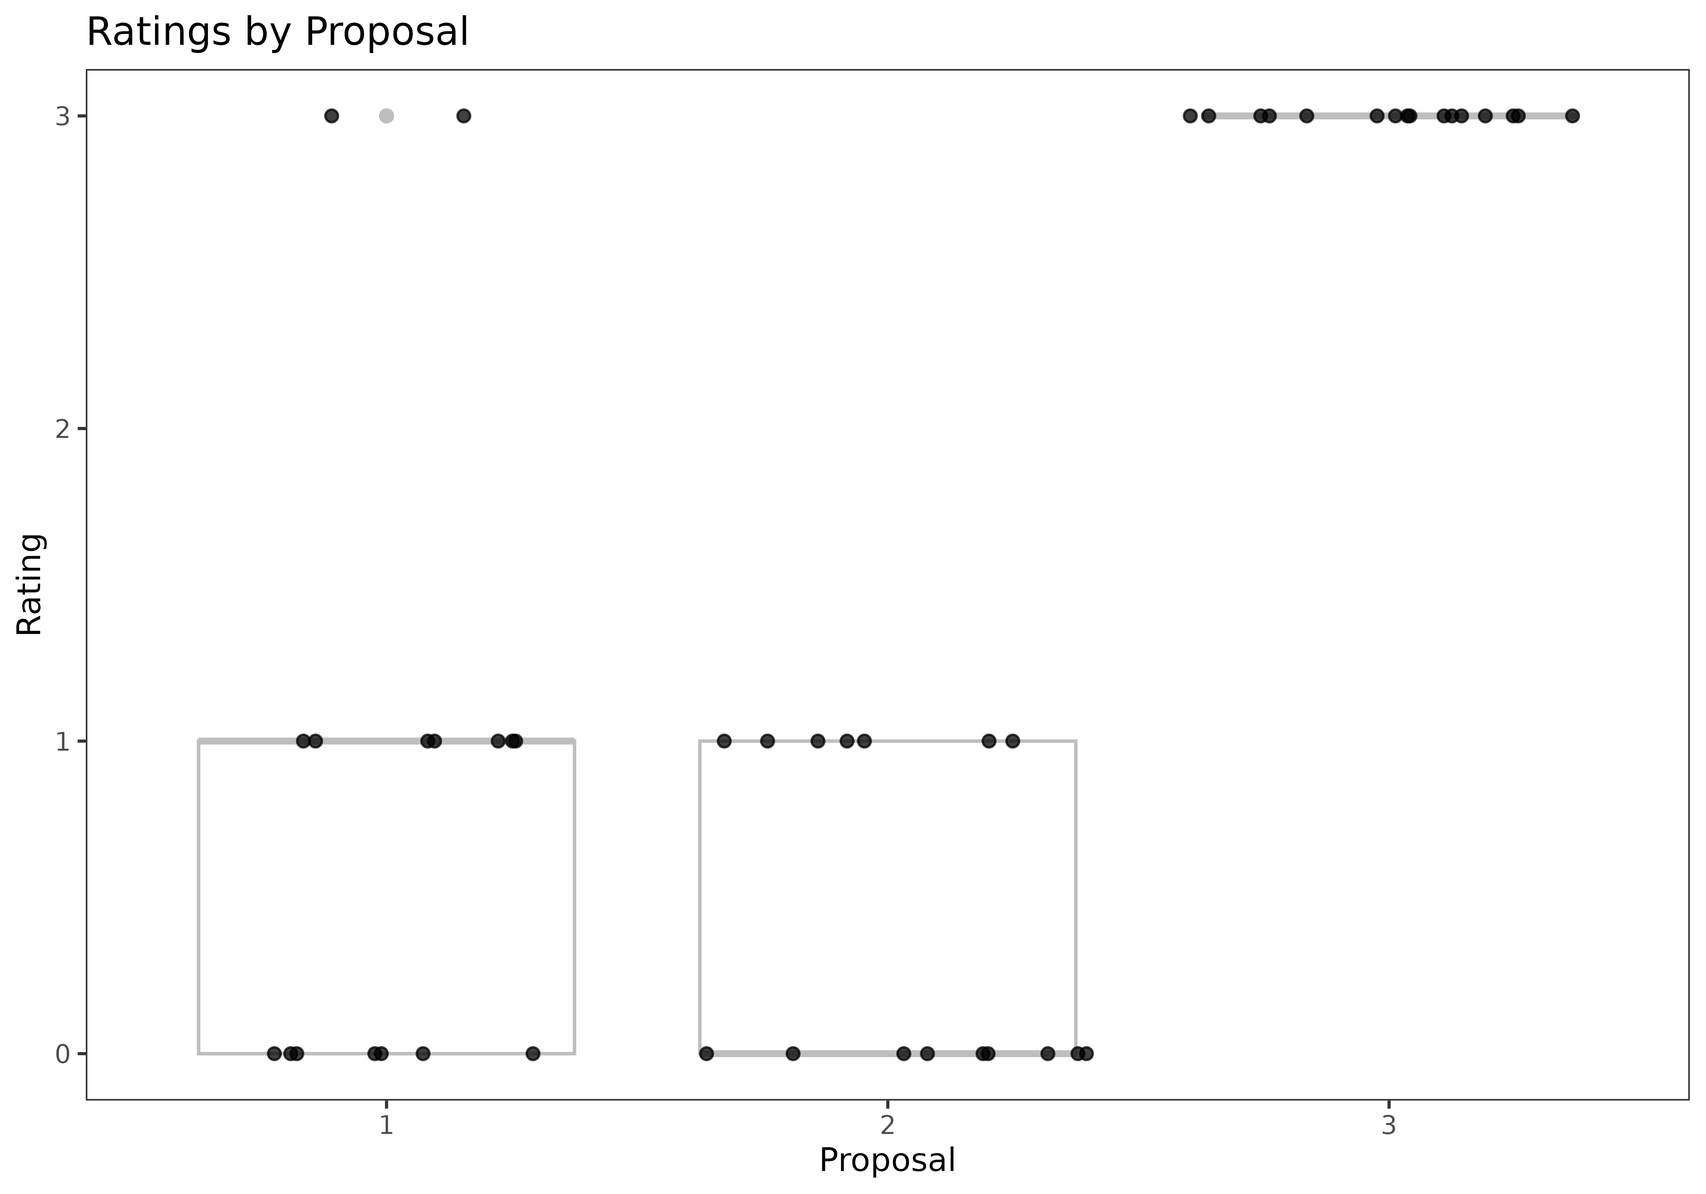
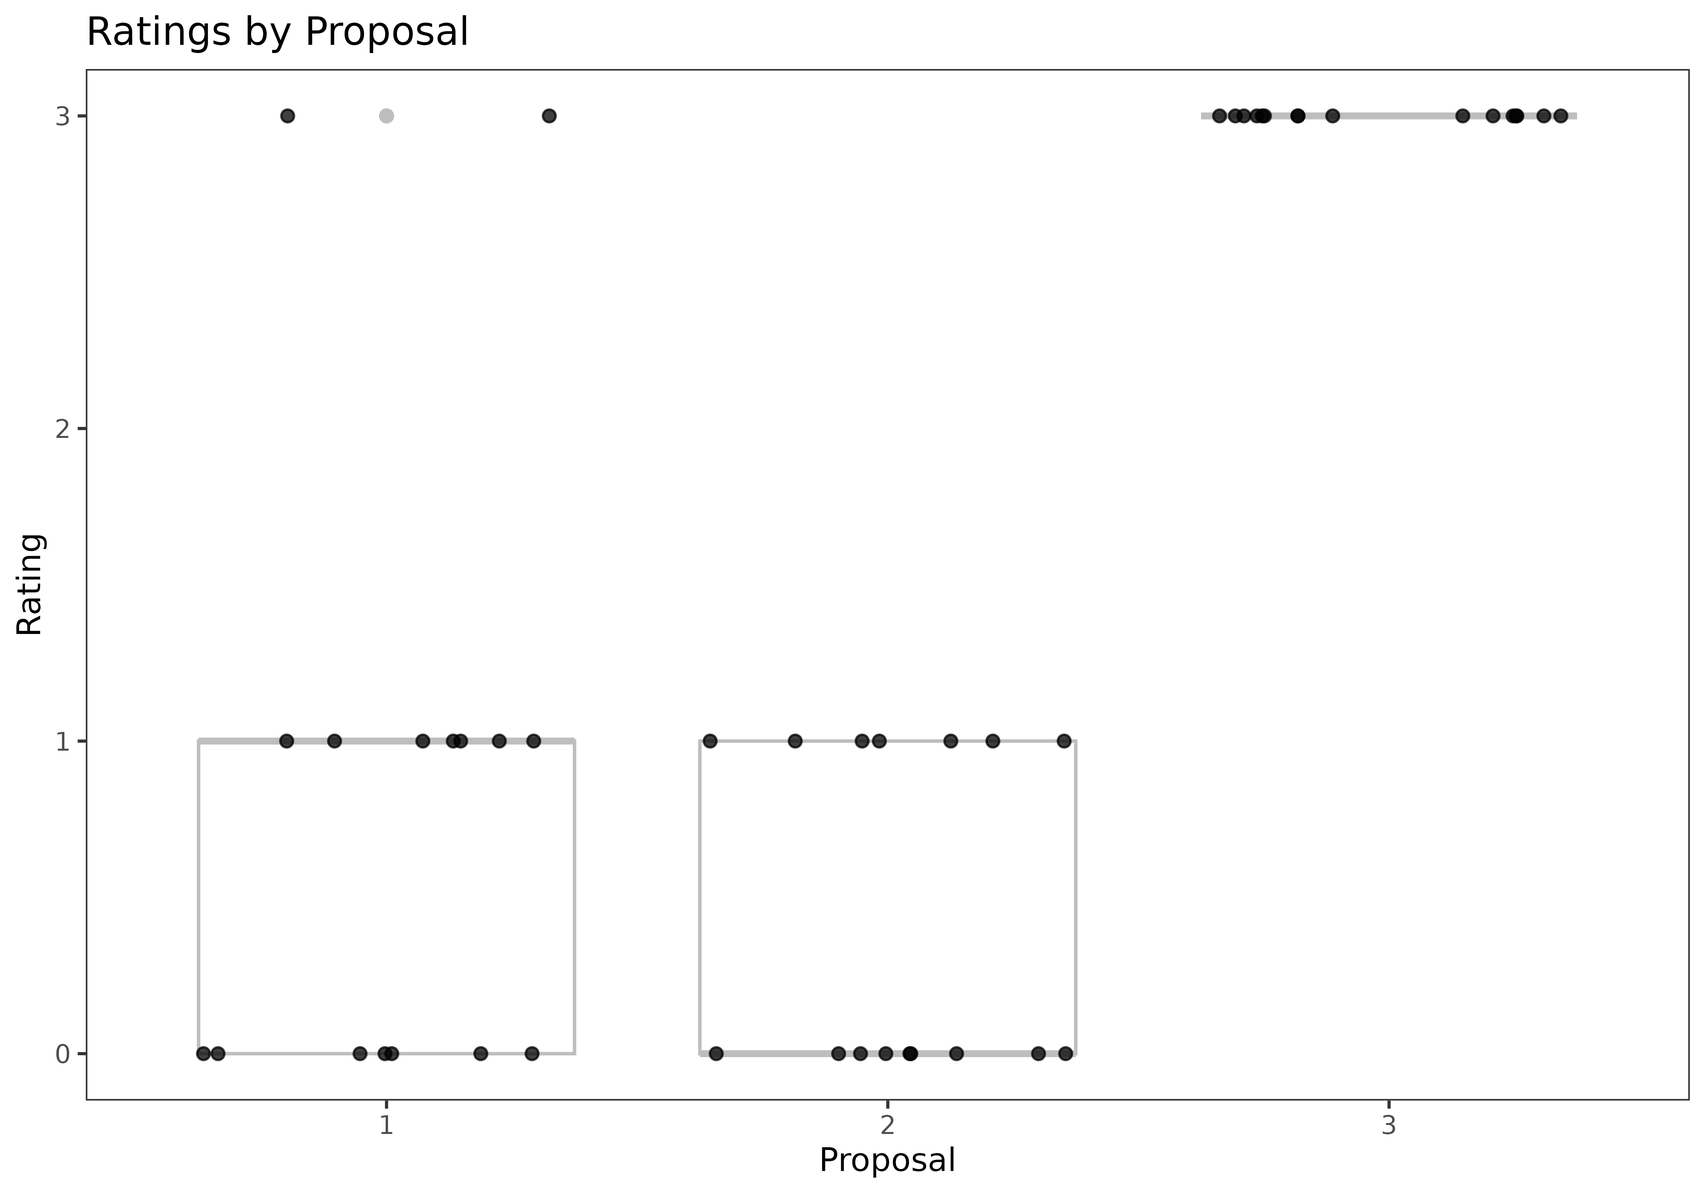
Deploying to gh-pages from @ pearce790/rankrate@65d6e1b52c5085fd009be65f7f725cf2c1b33ae3 🚀

diff --git a/reference/ci_mb.html b/reference/ci_mb.html
@@ -113,9 +113,9 @@ matrix of bootstrap estimates of (p,theta) (returned only if <code>all==TRUE</co
     <div class="sourceCode"><pre class="sourceCode r"><code><span class="r-in"><span><span class="fu"><a href="https://rdrr.io/r/utils/data.html" class="external-link">data</a></span><span class="op">(</span><span class="st">"ToyData1"</span><span class="op">)</span></span></span>
 <span class="r-in"><span><span class="fu">ci_mb</span><span class="op">(</span><span class="va">ToyData1</span><span class="op">$</span><span class="va">rankings</span>,<span class="va">ToyData1</span><span class="op">$</span><span class="va">ratings</span>,<span class="va">ToyData1</span><span class="op">$</span><span class="va">M</span>,method<span class="op">=</span><span class="st">"ASTAR"</span>,all<span class="op">=</span><span class="cn">TRUE</span><span class="op">)</span></span></span>
 <span class="r-out co"><span class="r-pr">#&gt;</span> $ci</span>
-<span class="r-out co"><span class="r-pr">#&gt;</span>           p1       p2   p3 theta</span>
-<span class="r-out co"><span class="r-pr">#&gt;</span> 5%  0.078125 0.078125 0.75 1e+08</span>
-<span class="r-out co"><span class="r-pr">#&gt;</span> 95% 0.171875 0.171875 0.75 1e+08</span>
+<span class="r-out co"><span class="r-pr">#&gt;</span>            p1        p2   p3 theta</span>
+<span class="r-out co"><span class="r-pr">#&gt;</span> 5%  0.0781250 0.0781250 0.75 1e+08</span>
+<span class="r-out co"><span class="r-pr">#&gt;</span> 95% 0.1648437 0.1648437 0.75 1e+08</span>
 <span class="r-out co"><span class="r-pr">#&gt;</span> </span>
 <span class="r-out co"><span class="r-pr">#&gt;</span> $ci_ranks</span>
 <span class="r-out co"><span class="r-pr">#&gt;</span>     Object1 Object2 Object3</span>
@@ -177,56 +177,56 @@ matrix of bootstrap estimates of (p,theta) (returned only if <code>all==TRUE</co
 <span class="r-out co"><span class="r-pr">#&gt;</span> </span>
 <span class="r-out co"><span class="r-pr">#&gt;</span> $bootstrap_ptheta</span>
 <span class="r-out co"><span class="r-pr">#&gt;</span>             p1       p2   p3 theta</span>
-<span class="r-out co"><span class="r-pr">#&gt;</span>  [1,] 0.140625 0.140625 0.75 1e+08</span>
-<span class="r-out co"><span class="r-pr">#&gt;</span>  [2,] 0.109375 0.109375 0.75 1e+08</span>
-<span class="r-out co"><span class="r-pr">#&gt;</span>  [3,] 0.109375 0.109375 0.75 1e+08</span>
-<span class="r-out co"><span class="r-pr">#&gt;</span>  [4,] 0.140625 0.140625 0.75 1e+08</span>
-<span class="r-out co"><span class="r-pr">#&gt;</span>  [5,] 0.078125 0.078125 0.75 1e+08</span>
-<span class="r-out co"><span class="r-pr">#&gt;</span>  [6,] 0.125000 0.125000 0.75 1e+08</span>
-<span class="r-out co"><span class="r-pr">#&gt;</span>  [7,] 0.109375 0.109375 0.75 1e+08</span>
-<span class="r-out co"><span class="r-pr">#&gt;</span>  [8,] 0.171875 0.171875 0.75 1e+08</span>
-<span class="r-out co"><span class="r-pr">#&gt;</span>  [9,] 0.140625 0.140625 0.75 1e+08</span>
-<span class="r-out co"><span class="r-pr">#&gt;</span> [10,] 0.125000 0.125000 0.75 1e+08</span>
-<span class="r-out co"><span class="r-pr">#&gt;</span> [11,] 0.171875 0.171875 0.75 1e+08</span>
-<span class="r-out co"><span class="r-pr">#&gt;</span> [12,] 0.171875 0.171875 0.75 1e+08</span>
-<span class="r-out co"><span class="r-pr">#&gt;</span> [13,] 0.171875 0.171875 0.75 1e+08</span>
-<span class="r-out co"><span class="r-pr">#&gt;</span> [14,] 0.125000 0.125000 0.75 1e+08</span>
-<span class="r-out co"><span class="r-pr">#&gt;</span> [15,] 0.125000 0.125000 0.75 1e+08</span>
-<span class="r-out co"><span class="r-pr">#&gt;</span> [16,] 0.125000 0.125000 0.75 1e+08</span>
-<span class="r-out co"><span class="r-pr">#&gt;</span> [17,] 0.125000 0.125000 0.75 1e+08</span>
-<span class="r-out co"><span class="r-pr">#&gt;</span> [18,] 0.171875 0.171875 0.75 1e+08</span>
-<span class="r-out co"><span class="r-pr">#&gt;</span> [19,] 0.109375 0.109375 0.75 1e+08</span>
-<span class="r-out co"><span class="r-pr">#&gt;</span> [20,] 0.093750 0.093750 0.75 1e+08</span>
-<span class="r-out co"><span class="r-pr">#&gt;</span> [21,] 0.125000 0.125000 0.75 1e+08</span>
+<span class="r-out co"><span class="r-pr">#&gt;</span>  [1,] 0.078125 0.078125 0.75 1e+08</span>
+<span class="r-out co"><span class="r-pr">#&gt;</span>  [2,] 0.125000 0.125000 0.75 1e+08</span>
+<span class="r-out co"><span class="r-pr">#&gt;</span>  [3,] 0.156250 0.156250 0.75 1e+08</span>
+<span class="r-out co"><span class="r-pr">#&gt;</span>  [4,] 0.109375 0.109375 0.75 1e+08</span>
+<span class="r-out co"><span class="r-pr">#&gt;</span>  [5,] 0.109375 0.109375 0.75 1e+08</span>
+<span class="r-out co"><span class="r-pr">#&gt;</span>  [6,] 0.078125 0.078125 0.75 1e+08</span>
+<span class="r-out co"><span class="r-pr">#&gt;</span>  [7,] 0.171875 0.171875 0.75 1e+08</span>
+<span class="r-out co"><span class="r-pr">#&gt;</span>  [8,] 0.156250 0.156250 0.75 1e+08</span>
+<span class="r-out co"><span class="r-pr">#&gt;</span>  [9,] 0.078125 0.078125 0.75 1e+08</span>
+<span class="r-out co"><span class="r-pr">#&gt;</span> [10,] 0.171875 0.171875 0.75 1e+08</span>
+<span class="r-out co"><span class="r-pr">#&gt;</span> [11,] 0.093750 0.093750 0.75 1e+08</span>
+<span class="r-out co"><span class="r-pr">#&gt;</span> [12,] 0.093750 0.093750 0.75 1e+08</span>
+<span class="r-out co"><span class="r-pr">#&gt;</span> [13,] 0.078125 0.078125 0.75 1e+08</span>
+<span class="r-out co"><span class="r-pr">#&gt;</span> [14,] 0.078125 0.078125 0.75 1e+08</span>
+<span class="r-out co"><span class="r-pr">#&gt;</span> [15,] 0.093750 0.093750 0.75 1e+08</span>
+<span class="r-out co"><span class="r-pr">#&gt;</span> [16,] 0.109375 0.109375 0.75 1e+08</span>
+<span class="r-out co"><span class="r-pr">#&gt;</span> [17,] 0.140625 0.140625 0.75 1e+08</span>
+<span class="r-out co"><span class="r-pr">#&gt;</span> [18,] 0.140625 0.140625 0.75 1e+08</span>
+<span class="r-out co"><span class="r-pr">#&gt;</span> [19,] 0.125000 0.125000 0.75 1e+08</span>
+<span class="r-out co"><span class="r-pr">#&gt;</span> [20,] 0.109375 0.109375 0.75 1e+08</span>
+<span class="r-out co"><span class="r-pr">#&gt;</span> [21,] 0.078125 0.078125 0.75 1e+08</span>
 <span class="r-out co"><span class="r-pr">#&gt;</span> [22,] 0.140625 0.140625 0.75 1e+08</span>
-<span class="r-out co"><span class="r-pr">#&gt;</span> [23,] 0.109375 0.109375 0.75 1e+08</span>
-<span class="r-out co"><span class="r-pr">#&gt;</span> [24,] 0.140625 0.140625 0.75 1e+08</span>
+<span class="r-out co"><span class="r-pr">#&gt;</span> [23,] 0.125000 0.125000 0.75 1e+08</span>
+<span class="r-out co"><span class="r-pr">#&gt;</span> [24,] 0.125000 0.125000 0.75 1e+08</span>
 <span class="r-out co"><span class="r-pr">#&gt;</span> [25,] 0.125000 0.125000 0.75 1e+08</span>
-<span class="r-out co"><span class="r-pr">#&gt;</span> [26,] 0.171875 0.171875 0.75 1e+08</span>
-<span class="r-out co"><span class="r-pr">#&gt;</span> [27,] 0.062500 0.062500 0.75 1e+08</span>
-<span class="r-out co"><span class="r-pr">#&gt;</span> [28,] 0.078125 0.078125 0.75 1e+08</span>
-<span class="r-out co"><span class="r-pr">#&gt;</span> [29,] 0.093750 0.093750 0.75 1e+08</span>
-<span class="r-out co"><span class="r-pr">#&gt;</span> [30,] 0.109375 0.109375 0.75 1e+08</span>
-<span class="r-out co"><span class="r-pr">#&gt;</span> [31,] 0.140625 0.140625 0.75 1e+08</span>
-<span class="r-out co"><span class="r-pr">#&gt;</span> [32,] 0.140625 0.140625 0.75 1e+08</span>
-<span class="r-out co"><span class="r-pr">#&gt;</span> [33,] 0.140625 0.140625 0.75 1e+08</span>
-<span class="r-out co"><span class="r-pr">#&gt;</span> [34,] 0.125000 0.125000 0.75 1e+08</span>
+<span class="r-out co"><span class="r-pr">#&gt;</span> [26,] 0.140625 0.140625 0.75 1e+08</span>
+<span class="r-out co"><span class="r-pr">#&gt;</span> [27,] 0.140625 0.140625 0.75 1e+08</span>
+<span class="r-out co"><span class="r-pr">#&gt;</span> [28,] 0.125000 0.125000 0.75 1e+08</span>
+<span class="r-out co"><span class="r-pr">#&gt;</span> [29,] 0.140625 0.140625 0.75 1e+08</span>
+<span class="r-out co"><span class="r-pr">#&gt;</span> [30,] 0.078125 0.078125 0.75 1e+08</span>
+<span class="r-out co"><span class="r-pr">#&gt;</span> [31,] 0.171875 0.171875 0.75 1e+08</span>
+<span class="r-out co"><span class="r-pr">#&gt;</span> [32,] 0.156250 0.156250 0.75 1e+08</span>
+<span class="r-out co"><span class="r-pr">#&gt;</span> [33,] 0.109375 0.109375 0.75 1e+08</span>
+<span class="r-out co"><span class="r-pr">#&gt;</span> [34,] 0.140625 0.140625 0.75 1e+08</span>
 <span class="r-out co"><span class="r-pr">#&gt;</span> [35,] 0.125000 0.125000 0.75 1e+08</span>
-<span class="r-out co"><span class="r-pr">#&gt;</span> [36,] 0.156250 0.156250 0.75 1e+08</span>
-<span class="r-out co"><span class="r-pr">#&gt;</span> [37,] 0.140625 0.140625 0.75 1e+08</span>
+<span class="r-out co"><span class="r-pr">#&gt;</span> [36,] 0.140625 0.140625 0.75 1e+08</span>
+<span class="r-out co"><span class="r-pr">#&gt;</span> [37,] 0.093750 0.093750 0.75 1e+08</span>
 <span class="r-out co"><span class="r-pr">#&gt;</span> [38,] 0.125000 0.125000 0.75 1e+08</span>
 <span class="r-out co"><span class="r-pr">#&gt;</span> [39,] 0.109375 0.109375 0.75 1e+08</span>
 <span class="r-out co"><span class="r-pr">#&gt;</span> [40,] 0.156250 0.156250 0.75 1e+08</span>
-<span class="r-out co"><span class="r-pr">#&gt;</span> [41,] 0.078125 0.078125 0.75 1e+08</span>
-<span class="r-out co"><span class="r-pr">#&gt;</span> [42,] 0.156250 0.156250 0.75 1e+08</span>
-<span class="r-out co"><span class="r-pr">#&gt;</span> [43,] 0.093750 0.093750 0.75 1e+08</span>
+<span class="r-out co"><span class="r-pr">#&gt;</span> [41,] 0.109375 0.109375 0.75 1e+08</span>
+<span class="r-out co"><span class="r-pr">#&gt;</span> [42,] 0.093750 0.093750 0.75 1e+08</span>
+<span class="r-out co"><span class="r-pr">#&gt;</span> [43,] 0.125000 0.125000 0.75 1e+08</span>
 <span class="r-out co"><span class="r-pr">#&gt;</span> [44,] 0.109375 0.109375 0.75 1e+08</span>
-<span class="r-out co"><span class="r-pr">#&gt;</span> [45,] 0.140625 0.140625 0.75 1e+08</span>
+<span class="r-out co"><span class="r-pr">#&gt;</span> [45,] 0.156250 0.156250 0.75 1e+08</span>
 <span class="r-out co"><span class="r-pr">#&gt;</span> [46,] 0.125000 0.125000 0.75 1e+08</span>
 <span class="r-out co"><span class="r-pr">#&gt;</span> [47,] 0.125000 0.125000 0.75 1e+08</span>
-<span class="r-out co"><span class="r-pr">#&gt;</span> [48,] 0.125000 0.125000 0.75 1e+08</span>
-<span class="r-out co"><span class="r-pr">#&gt;</span> [49,] 0.171875 0.171875 0.75 1e+08</span>
-<span class="r-out co"><span class="r-pr">#&gt;</span> [50,] 0.156250 0.156250 0.75 1e+08</span>
+<span class="r-out co"><span class="r-pr">#&gt;</span> [48,] 0.109375 0.109375 0.75 1e+08</span>
+<span class="r-out co"><span class="r-pr">#&gt;</span> [49,] 0.140625 0.140625 0.75 1e+08</span>
+<span class="r-out co"><span class="r-pr">#&gt;</span> [50,] 0.140625 0.140625 0.75 1e+08</span>
 <span class="r-out co"><span class="r-pr">#&gt;</span> </span>
 <span class="r-in"><span></span></span>
 </code></pre></div>

diff --git a/reference/rmb.html b/reference/rmb.html
@@ -96,19 +96,19 @@ and <code>M</code>, the inputted maximum integer rating.</p>
     <div class="sourceCode"><pre class="sourceCode r"><code><span class="r-in"><span><span class="fu">rmb</span><span class="op">(</span>I<span class="op">=</span><span class="fl">5</span>,p<span class="op">=</span><span class="fu"><a href="https://rdrr.io/r/base/c.html" class="external-link">c</a></span><span class="op">(</span><span class="fl">.1</span>,<span class="fl">.3</span>,<span class="fl">.4</span>,<span class="fl">.7</span>,<span class="fl">.9</span><span class="op">)</span>,theta<span class="op">=</span><span class="fl">1</span>,M<span class="op">=</span><span class="fl">10</span><span class="op">)</span></span></span>
 <span class="r-out co"><span class="r-pr">#&gt;</span> $ratings</span>
 <span class="r-out co"><span class="r-pr">#&gt;</span>      [,1] [,2] [,3] [,4] [,5]</span>
-<span class="r-out co"><span class="r-pr">#&gt;</span> [1,]    0    4    5    7    9</span>
-<span class="r-out co"><span class="r-pr">#&gt;</span> [2,]    4    4    6    9   10</span>
-<span class="r-out co"><span class="r-pr">#&gt;</span> [3,]    1    3    4    9    8</span>
-<span class="r-out co"><span class="r-pr">#&gt;</span> [4,]    0    4    6    6   10</span>
-<span class="r-out co"><span class="r-pr">#&gt;</span> [5,]    1    6    6    4    8</span>
+<span class="r-out co"><span class="r-pr">#&gt;</span> [1,]    0    3    4    9   10</span>
+<span class="r-out co"><span class="r-pr">#&gt;</span> [2,]    1    1    4    6    8</span>
+<span class="r-out co"><span class="r-pr">#&gt;</span> [3,]    1    5    3    4   10</span>
+<span class="r-out co"><span class="r-pr">#&gt;</span> [4,]    0    2    2    8    7</span>
+<span class="r-out co"><span class="r-pr">#&gt;</span> [5,]    3    1    4    4    8</span>
 <span class="r-out co"><span class="r-pr">#&gt;</span> </span>
 <span class="r-out co"><span class="r-pr">#&gt;</span> $rankings</span>
 <span class="r-out co"><span class="r-pr">#&gt;</span>      [,1] [,2] [,3] [,4] [,5]</span>
 <span class="r-out co"><span class="r-pr">#&gt;</span> [1,]    1    5    2    3    4</span>
-<span class="r-out co"><span class="r-pr">#&gt;</span> [2,]    1    2    4    3    5</span>
-<span class="r-out co"><span class="r-pr">#&gt;</span> [3,]    1    3    2    5    4</span>
-<span class="r-out co"><span class="r-pr">#&gt;</span> [4,]    1    4    5    3    2</span>
-<span class="r-out co"><span class="r-pr">#&gt;</span> [5,]    4    1    5    2    3</span>
+<span class="r-out co"><span class="r-pr">#&gt;</span> [2,]    2    1    4    3    5</span>
+<span class="r-out co"><span class="r-pr">#&gt;</span> [3,]    2    1    3    4    5</span>
+<span class="r-out co"><span class="r-pr">#&gt;</span> [4,]    3    2    1    4    5</span>
+<span class="r-out co"><span class="r-pr">#&gt;</span> [5,]    1    3    4    2    5</span>
 <span class="r-out co"><span class="r-pr">#&gt;</span> </span>
 <span class="r-out co"><span class="r-pr">#&gt;</span> $M</span>
 <span class="r-out co"><span class="r-pr">#&gt;</span> [1] 10</span>
@@ -116,16 +116,16 @@ and <code>M</code>, the inputted maximum integer rating.</p>
 <span class="r-in"><span><span class="fu">rmb</span><span class="op">(</span>I<span class="op">=</span><span class="fl">10</span>,p<span class="op">=</span><span class="fu"><a href="https://rdrr.io/r/base/c.html" class="external-link">c</a></span><span class="op">(</span><span class="fl">.1</span>,<span class="fl">.3</span>,<span class="fl">.3</span>,<span class="fl">.7</span>,<span class="fl">.9</span><span class="op">)</span>,pi0<span class="op">=</span><span class="fu"><a href="https://rdrr.io/r/base/c.html" class="external-link">c</a></span><span class="op">(</span><span class="fl">1</span>,<span class="fl">3</span>,<span class="fl">2</span>,<span class="fl">4</span>,<span class="fl">5</span><span class="op">)</span>,theta<span class="op">=</span><span class="fl">5</span>,M<span class="op">=</span><span class="fl">40</span>,R<span class="op">=</span><span class="fl">3</span><span class="op">)</span></span></span>
 <span class="r-out co"><span class="r-pr">#&gt;</span> $ratings</span>
 <span class="r-out co"><span class="r-pr">#&gt;</span>       [,1] [,2] [,3] [,4] [,5]</span>
-<span class="r-out co"><span class="r-pr">#&gt;</span>  [1,]    2   11   11   24   35</span>
-<span class="r-out co"><span class="r-pr">#&gt;</span>  [2,]    3    9   11   30   33</span>
-<span class="r-out co"><span class="r-pr">#&gt;</span>  [3,]    3   15    9   27   33</span>
-<span class="r-out co"><span class="r-pr">#&gt;</span>  [4,]    3    8   14   23   38</span>
-<span class="r-out co"><span class="r-pr">#&gt;</span>  [5,]    6   10   10   29   37</span>
-<span class="r-out co"><span class="r-pr">#&gt;</span>  [6,]    3   13   12   26   34</span>
-<span class="r-out co"><span class="r-pr">#&gt;</span>  [7,]    3    9    8   29   34</span>
-<span class="r-out co"><span class="r-pr">#&gt;</span>  [8,]    6   10   11   21   38</span>
-<span class="r-out co"><span class="r-pr">#&gt;</span>  [9,]    5   12   15   32   39</span>
-<span class="r-out co"><span class="r-pr">#&gt;</span> [10,]    3    8   11   29   35</span>
+<span class="r-out co"><span class="r-pr">#&gt;</span>  [1,]    4   14   12   21   37</span>
+<span class="r-out co"><span class="r-pr">#&gt;</span>  [2,]    5   17   11   30   33</span>
+<span class="r-out co"><span class="r-pr">#&gt;</span>  [3,]    9   11   10   27   37</span>
+<span class="r-out co"><span class="r-pr">#&gt;</span>  [4,]    5   16   14   31   34</span>
+<span class="r-out co"><span class="r-pr">#&gt;</span>  [5,]    8   11   15   27   34</span>
+<span class="r-out co"><span class="r-pr">#&gt;</span>  [6,]    4   16   13   29   35</span>
+<span class="r-out co"><span class="r-pr">#&gt;</span>  [7,]    3   17   13   27   38</span>
+<span class="r-out co"><span class="r-pr">#&gt;</span>  [8,]    2   10    8   31   37</span>
+<span class="r-out co"><span class="r-pr">#&gt;</span>  [9,]    2   15   13   31   36</span>
+<span class="r-out co"><span class="r-pr">#&gt;</span> [10,]    7    8   12   31   38</span>
 <span class="r-out co"><span class="r-pr">#&gt;</span> </span>
 <span class="r-out co"><span class="r-pr">#&gt;</span> $rankings</span>
 <span class="r-out co"><span class="r-pr">#&gt;</span>       [,1] [,2] [,3] [,4] [,5]</span>

diff --git a/reference/rmall.html b/reference/rmall.html
@@ -85,25 +85,25 @@ rankings are drawn by definition.</p></dd>
     <h2>Examples</h2>
     <div class="sourceCode"><pre class="sourceCode r"><code><span class="r-in"><span><span class="fu">rmall</span><span class="op">(</span>I<span class="op">=</span><span class="fl">5</span>,pi0<span class="op">=</span><span class="fl">1</span><span class="op">:</span><span class="fl">5</span>,theta<span class="op">=</span><span class="fl">1</span>,R<span class="op">=</span><span class="fl">3</span><span class="op">)</span></span></span>
 <span class="r-out co"><span class="r-pr">#&gt;</span>      [,1] [,2] [,3] [,4] [,5]</span>
-<span class="r-out co"><span class="r-pr">#&gt;</span> [1,]    2    3    4   NA   NA</span>
-<span class="r-out co"><span class="r-pr">#&gt;</span> [2,]    3    1    2   NA   NA</span>
-<span class="r-out co"><span class="r-pr">#&gt;</span> [3,]    1    2    4   NA   NA</span>
-<span class="r-out co"><span class="r-pr">#&gt;</span> [4,]    1    2    4   NA   NA</span>
+<span class="r-out co"><span class="r-pr">#&gt;</span> [1,]    2    1    3   NA   NA</span>
+<span class="r-out co"><span class="r-pr">#&gt;</span> [2,]    2    3    4   NA   NA</span>
+<span class="r-out co"><span class="r-pr">#&gt;</span> [3,]    1    2    3   NA   NA</span>
+<span class="r-out co"><span class="r-pr">#&gt;</span> [4,]    1    2    3   NA   NA</span>
 <span class="r-out co"><span class="r-pr">#&gt;</span> [5,]    1    3    2   NA   NA</span>
 <span class="r-in"><span><span class="fu">rmall</span><span class="op">(</span>I<span class="op">=</span><span class="fl">5</span>,pi0<span class="op">=</span><span class="fl">1</span><span class="op">:</span><span class="fl">3</span>,theta<span class="op">=</span><span class="fl">.5</span>,R<span class="op">=</span><span class="fu"><a href="https://rdrr.io/r/base/c.html" class="external-link">c</a></span><span class="op">(</span><span class="fl">1</span>,<span class="fl">1</span>,<span class="fl">1</span>,<span class="fl">1</span>,<span class="fl">3</span><span class="op">)</span><span class="op">)</span></span></span>
 <span class="r-out co"><span class="r-pr">#&gt;</span>      [,1] [,2] [,3]</span>
-<span class="r-out co"><span class="r-pr">#&gt;</span> [1,]    2   NA   NA</span>
-<span class="r-out co"><span class="r-pr">#&gt;</span> [2,]    1   NA   NA</span>
+<span class="r-out co"><span class="r-pr">#&gt;</span> [1,]    3   NA   NA</span>
+<span class="r-out co"><span class="r-pr">#&gt;</span> [2,]    3   NA   NA</span>
 <span class="r-out co"><span class="r-pr">#&gt;</span> [3,]    1   NA   NA</span>
-<span class="r-out co"><span class="r-pr">#&gt;</span> [4,]    1   NA   NA</span>
-<span class="r-out co"><span class="r-pr">#&gt;</span> [5,]    3    2    1</span>
+<span class="r-out co"><span class="r-pr">#&gt;</span> [4,]    2   NA   NA</span>
+<span class="r-out co"><span class="r-pr">#&gt;</span> [5,]    1    3    2</span>
 <span class="r-in"><span><span class="fu">rmall</span><span class="op">(</span>I<span class="op">=</span><span class="fl">5</span>,pi0<span class="op">=</span><span class="fl">1</span><span class="op">:</span><span class="fl">3</span>,theta<span class="op">=</span><span class="fl">.5</span><span class="op">)</span></span></span>
 <span class="r-out co"><span class="r-pr">#&gt;</span>      [,1] [,2] [,3]</span>
 <span class="r-out co"><span class="r-pr">#&gt;</span> [1,]    1    2    3</span>
-<span class="r-out co"><span class="r-pr">#&gt;</span> [2,]    1    2    3</span>
-<span class="r-out co"><span class="r-pr">#&gt;</span> [3,]    2    1    3</span>
-<span class="r-out co"><span class="r-pr">#&gt;</span> [4,]    1    2    3</span>
-<span class="r-out co"><span class="r-pr">#&gt;</span> [5,]    3    1    2</span>
+<span class="r-out co"><span class="r-pr">#&gt;</span> [2,]    3    2    1</span>
+<span class="r-out co"><span class="r-pr">#&gt;</span> [3,]    3    1    2</span>
+<span class="r-out co"><span class="r-pr">#&gt;</span> [4,]    2    3    1</span>
+<span class="r-out co"><span class="r-pr">#&gt;</span> [5,]    2    3    1</span>
 <span class="r-in"><span></span></span>
 </code></pre></div>
     </div>
